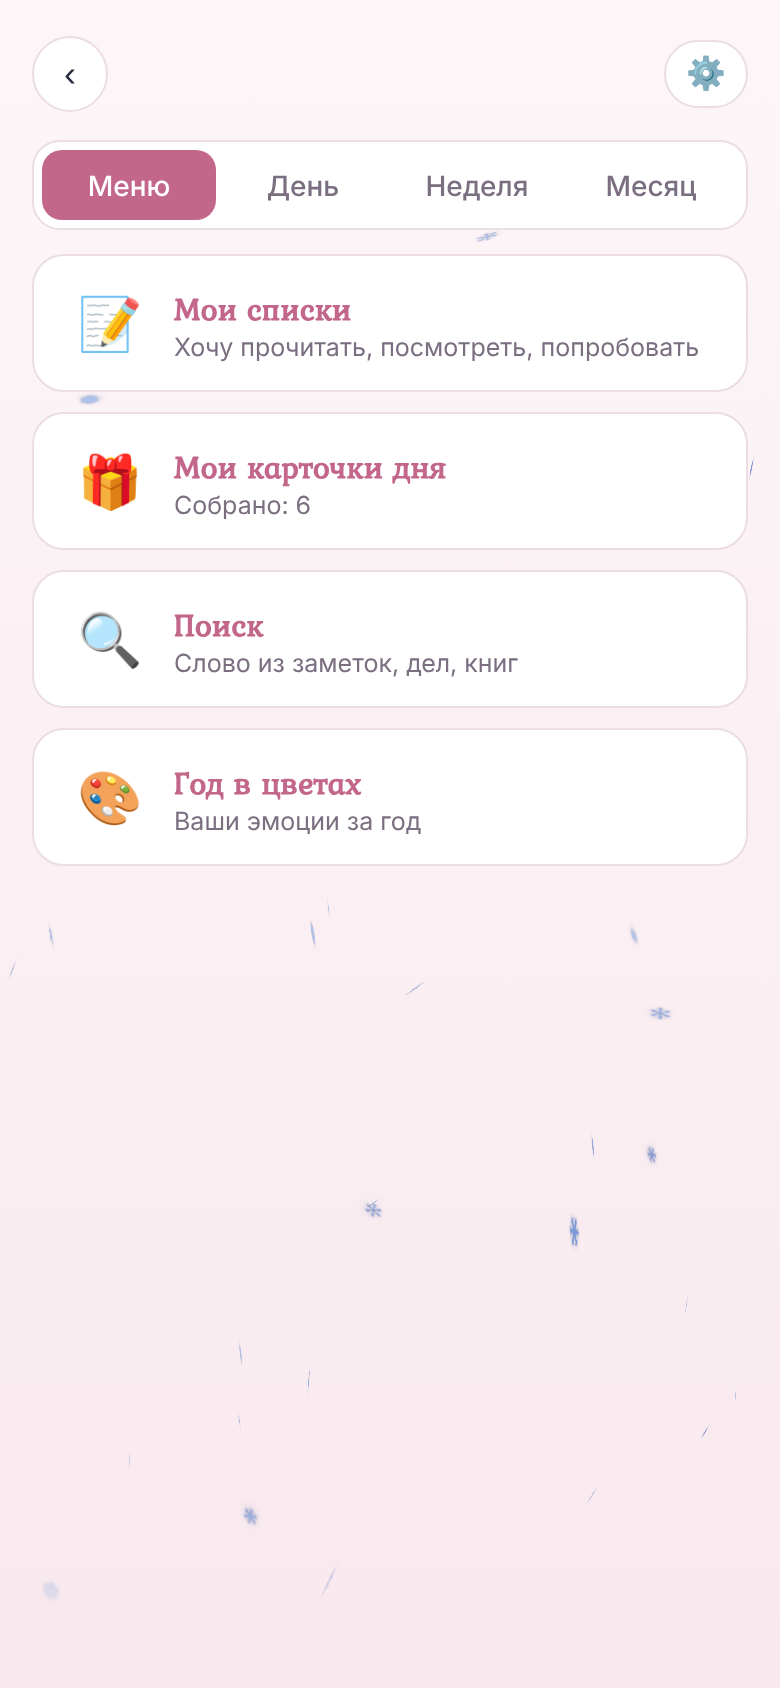
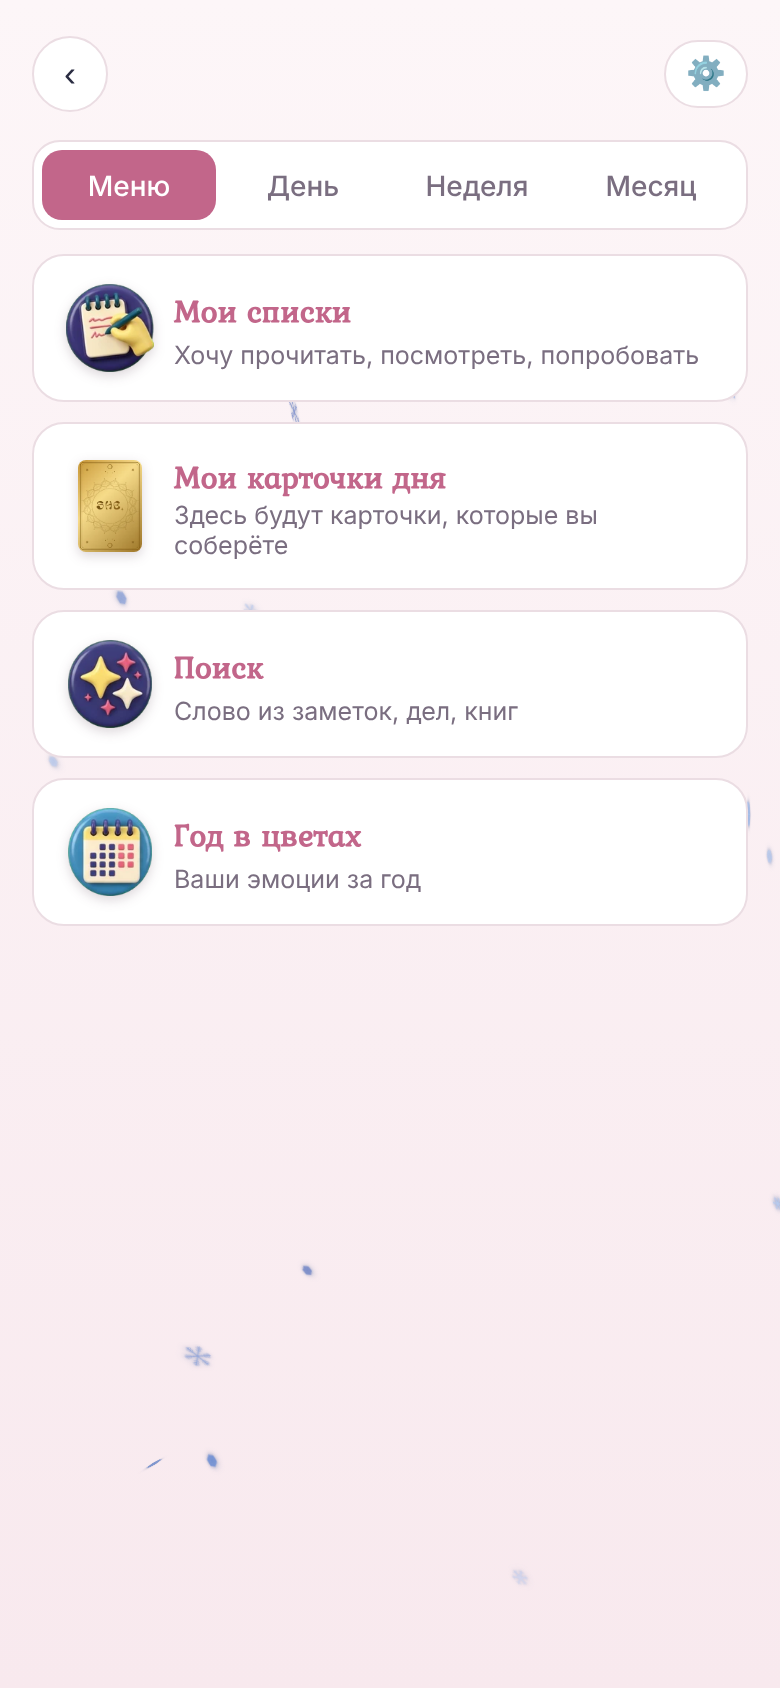
Трекер и «Меню» в проде; решения Лилы (чат 21)
Claude-Session: https://claude.ai/code/session_01TfGGfiqmiydifcvcCC5E3Z

diff --git a/CLAUDE.md b/CLAUDE.md
@@ -63,7 +63,8 @@ print(u)"`
 - Постоянное расписание: любое время, дела редактируются нажатием (20.11).
 - Трекер привычек — отдельная таблица в «Неделе» и «Месяце»: слева привычки, сверху дни/числа; у каждой привычки свой цвет; сделали — кружок в клетке дня закрашен (21.11).
 - В «Неделе» трекер отмечают и меняют; в «Месяце» — виден весь месяц сразу, только смотреть. Цвет привычки выбирают сами (в настройках). Без покупки «Неделя» и «Месяц» открыты, но работает только трекер привычек, как в «Дне» (21.11).
-- Вкладка «Меню» рядом с День/Неделя/Месяц (Мои списки, Мои карточки дня) — сначала снимок Лиле (21.11).
+- Вкладка «Меню» рядом с День/Неделя/Месяц (Мои списки, Мои карточки дня, Поиск, Год в цветах) — в боте с 21.11. Смайлики везде — только наши (3D-смайлики планера, наши карточки), не системные эмодзи (21.11).
+- Трекер привычек в боте с 21.11; «Месяц» — весь месяц сразу, только смотреть (старый снимок с прокруткой вбок был ошибкой).
 
 ### Дневник
 - Шифрование не делаем; про хранение ответ один: «Доступ к вашему дневнику есть только у вас» (17.11).

diff --git a/SVODKA.md b/SVODKA.md
@@ -76,3 +76,6 @@
 - Подробности (отложенные номера, мои варианты красным, цели по редким и уникальным) — ARHIV.md.
 
 Подробности прошлых чатов (9–16) и карточек дня — ARHIV.md.
+
+## Чат 21
+- 21.11: трекер привычек и вкладка «Меню» выложены в прод (she-bot 6d4e613). В «Меню» наши смайлики: pisat, kart_unik, svoy, kalendar (static/ny/pm). Месяц — весь сразу (habMonth); старый снимок mesyac.png с прокруткой удалён.
